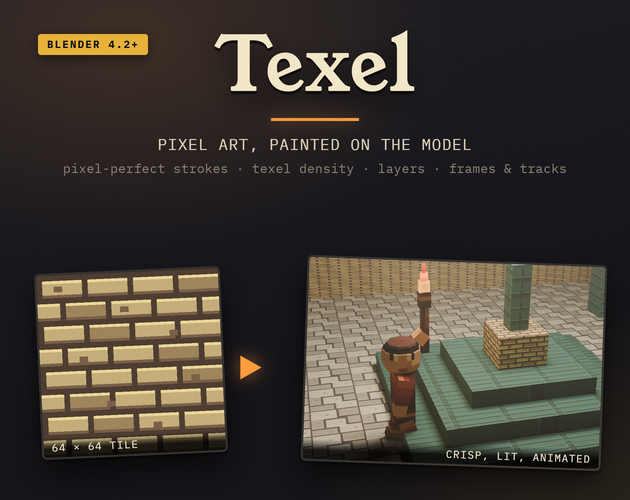
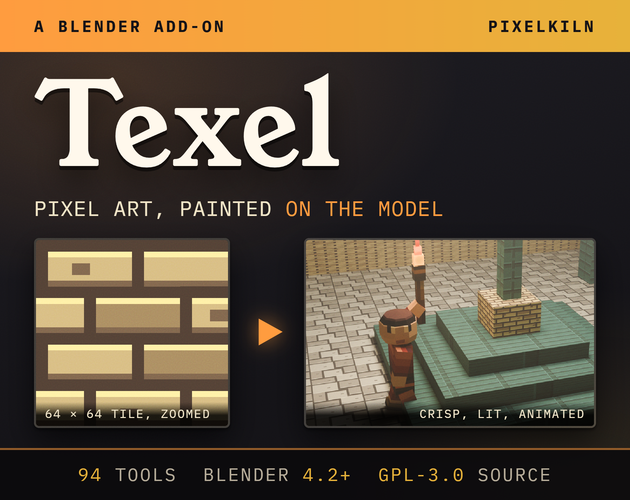
A cover that survives the storefront grid, and a version-proof download page
The old cover was judged in isolation and lost in company. Pulled all eight
paid Pixelkiln covers at the 315x250 itch actually renders and looked at them
together: every PACK gives its title ~30% of the height and reserves the
brightest value in the image for it. Texel gave its title 13%, in a serif set
in --cream - the SAME token as its tagline and its panel captions - so the
product's own name was chromatically identical to its fine print. It did not
read as a different kind of product, it read as a quieter one.

Measured, before and after, on the brightest 0.5% of ink in the title band:
Texel 246.4 -> 254.8 luma, against HUD Vol. 6 at 255.0 and Inventory Vol. 7 at
254.1. The name is now the brightest thing on its own cover.

The rest of the rebuild:
* a full-width ember/gold band no pack cover has - the "tool, not pack" signal
  before a word is read, and the reusable part if another tool follows.
* the flat-tile panel shows a 32px window instead of the whole 64x64 tile. The
  panel is 196px on a 630 master and itch shows that at 98px, so a full tile
  landed at a non-integer 1.53x and its mortar lines mushed; the caption says
  "zoomed" because cropping the proof without saying so would be a lie.
* the top bar now sits on the same 34px margin as everything under it, and the
  arrow is centred in its channel rather than 14px from one panel and 26 from
  the other.

Also: store/instructions.html no longer names a version. It said
[…]

diff --git a/store/instructions.html b/store/instructions.html
@@ -1,7 +1,7 @@
 <p><strong>Thank you.</strong> Here is the whole of it in about two minutes.</p>
 <p><strong>Install</strong></p>
 <ol>
-<li>Keep <code>texel-0.1.0.zip</code> <strong>zipped</strong>. Blender wants the zip, not the folder inside it.</li>
+<li>Keep the <code>texel-*.zip</code> you just downloaded <strong>zipped</strong>. Blender wants the zip, not the folder inside it.</li>
 <li>In Blender: <strong>Edit &rarr; Preferences &rarr; Get Extensions</strong>, then the small arrow at the top right &rarr; <strong>Install from Disk&hellip;</strong></li>
 <li>Pick the zip. Texel enables itself.</li>
 </ol>
